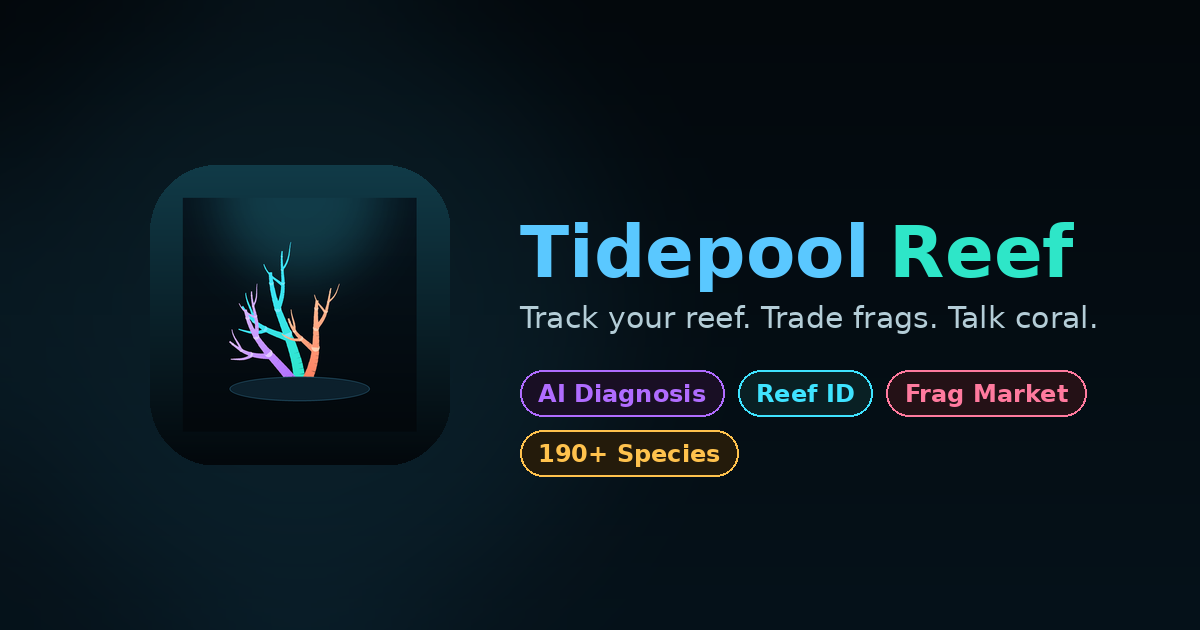
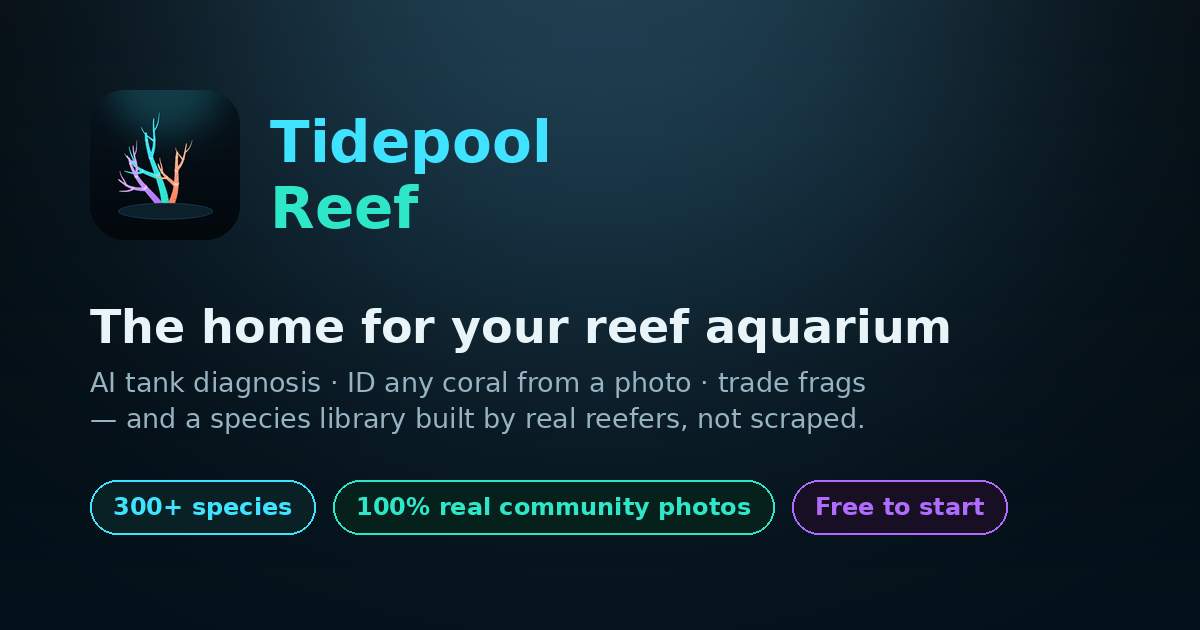
Carry community-built messaging across all marketing surfaces: (1) meta description + PWA manifest now lead with 'a species library built by real reefers, not scraped from stores'; (2) OG/Twitter share descriptions updated to mention the community-built library; (3) regenerated the OG share card (12

diff --git a/index.html b/index.html
@@ -10,13 +10,13 @@
     <meta name="mobile-web-app-capable" content="yes" />
     <meta name="apple-mobile-web-app-status-bar-style" content="black-translucent" />
     <meta name="apple-mobile-web-app-title" content="Tidepool" />
-    <meta name="description" content="Track your reef tank, join the community, and get AI-powered answers with DeepDive and ReefID." />
+    <meta name="description" content="Track your reef, get AI diagnosis, and ID any coral from a photo — with a species library built by real reefers, not scraped from stores." />
 
     <!-- Open Graph / social preview -->
     <meta property="og:type" content="website" />
     <meta property="og:site_name" content="Tidepool Reef" />
     <meta property="og:title" content="Tidepool Reef — The home for your reef aquarium" />
-    <meta property="og:description" content="Track your parameters, get AI diagnosis, ID any coral from a photo, and trade frags with reefers near you. Free to start." />
+    <meta property="og:description" content="Track your parameters, get AI tank diagnosis, ID any coral from a photo, and explore a community-built reef library. Free to start." />
     <meta property="og:url" content="https://reefpulse-app.netlify.app/" />
     <meta property="og:image" content="https://reefpulse-app.netlify.app/og-image.png" />
     <meta property="og:image:width" content="1200" />
@@ -25,7 +25,7 @@
     <!-- Twitter / X card -->
     <meta name="twitter:card" content="summary_large_image" />
     <meta name="twitter:title" content="Tidepool Reef — The home for your reef aquarium" />
-    <meta name="twitter:description" content="Track your parameters, get AI diagnosis, ID any coral from a photo, and trade frags with reefers near you. Free to start." />
+    <meta name="twitter:description" content="Track your parameters, get AI tank diagnosis, ID any coral from a photo, and explore a community-built reef library. Free to start." />
     <meta name="twitter:image" content="https://reefpulse-app.netlify.app/og-image.png" />
 
     <title>Tidepool Reef</title>

diff --git a/vite.config.js b/vite.config.js
@@ -11,7 +11,7 @@ export default defineConfig({
       manifest: {
         name: "Tidepool Reef",
         short_name: "Tidepool",
-        description: "Track your reef tank, join the community, and get AI-powered answers with DeepDive and ReefID.",
+        description: "Track your reef, get AI diagnosis, and ID any coral from a photo — with a species library built by real reefers, not scraped from stores.",
         id: "/",
         start_url: "/",
         display: "standalone",